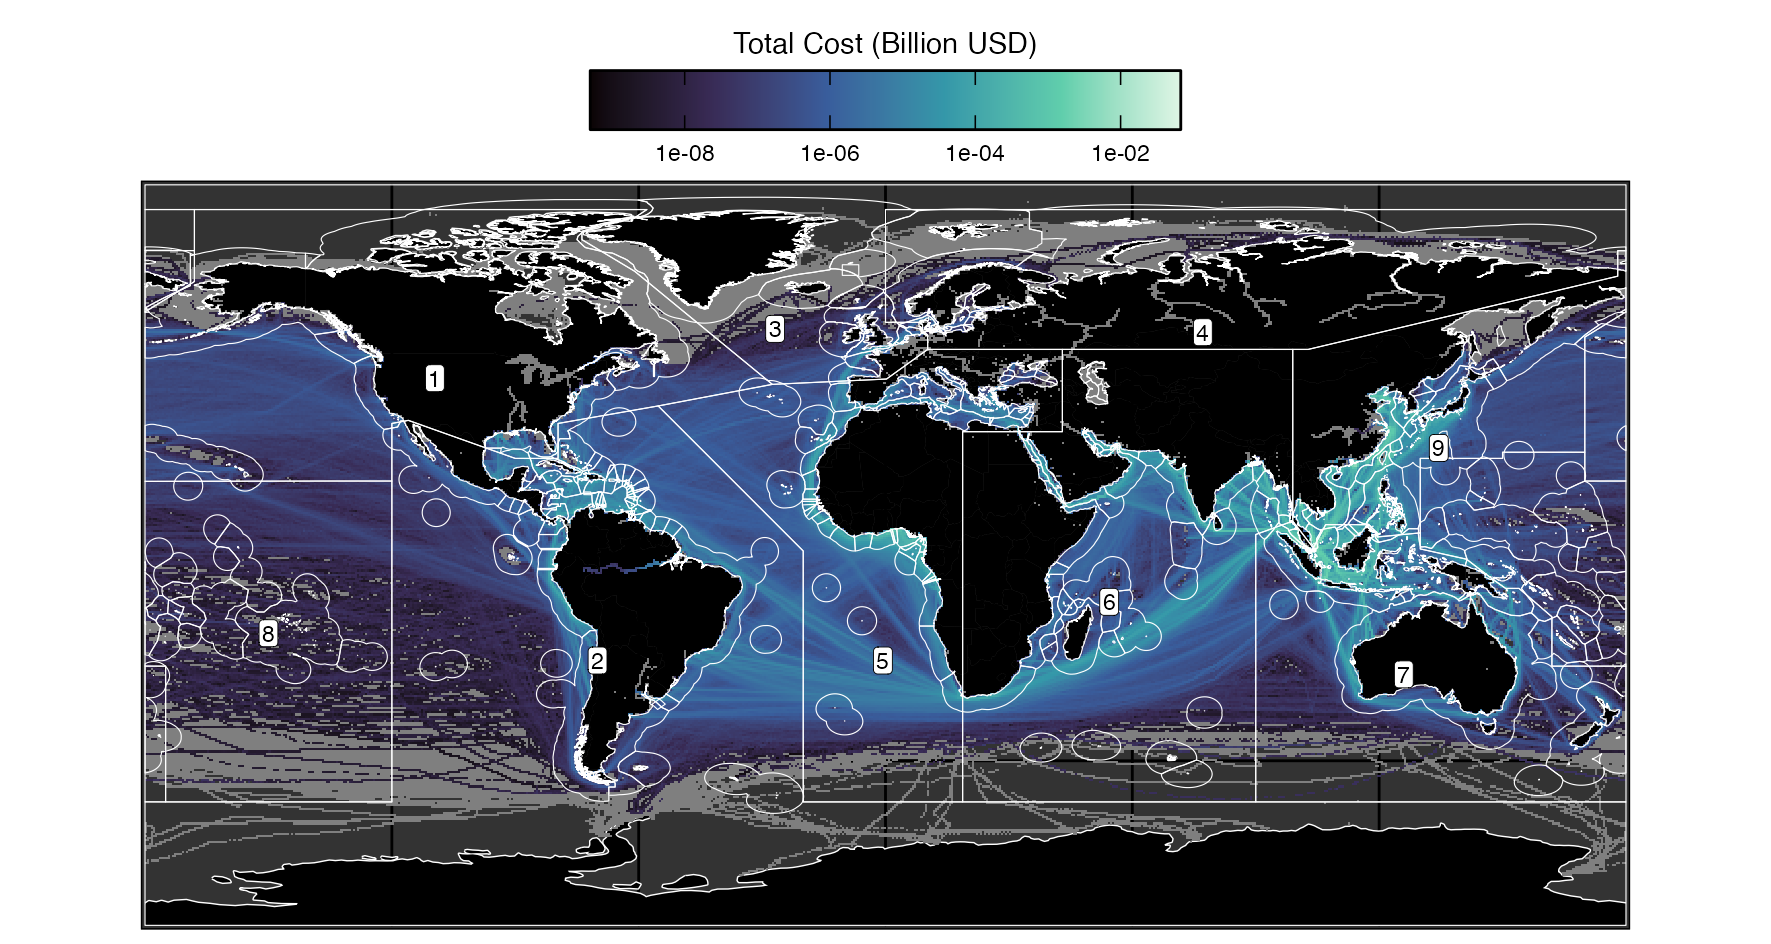
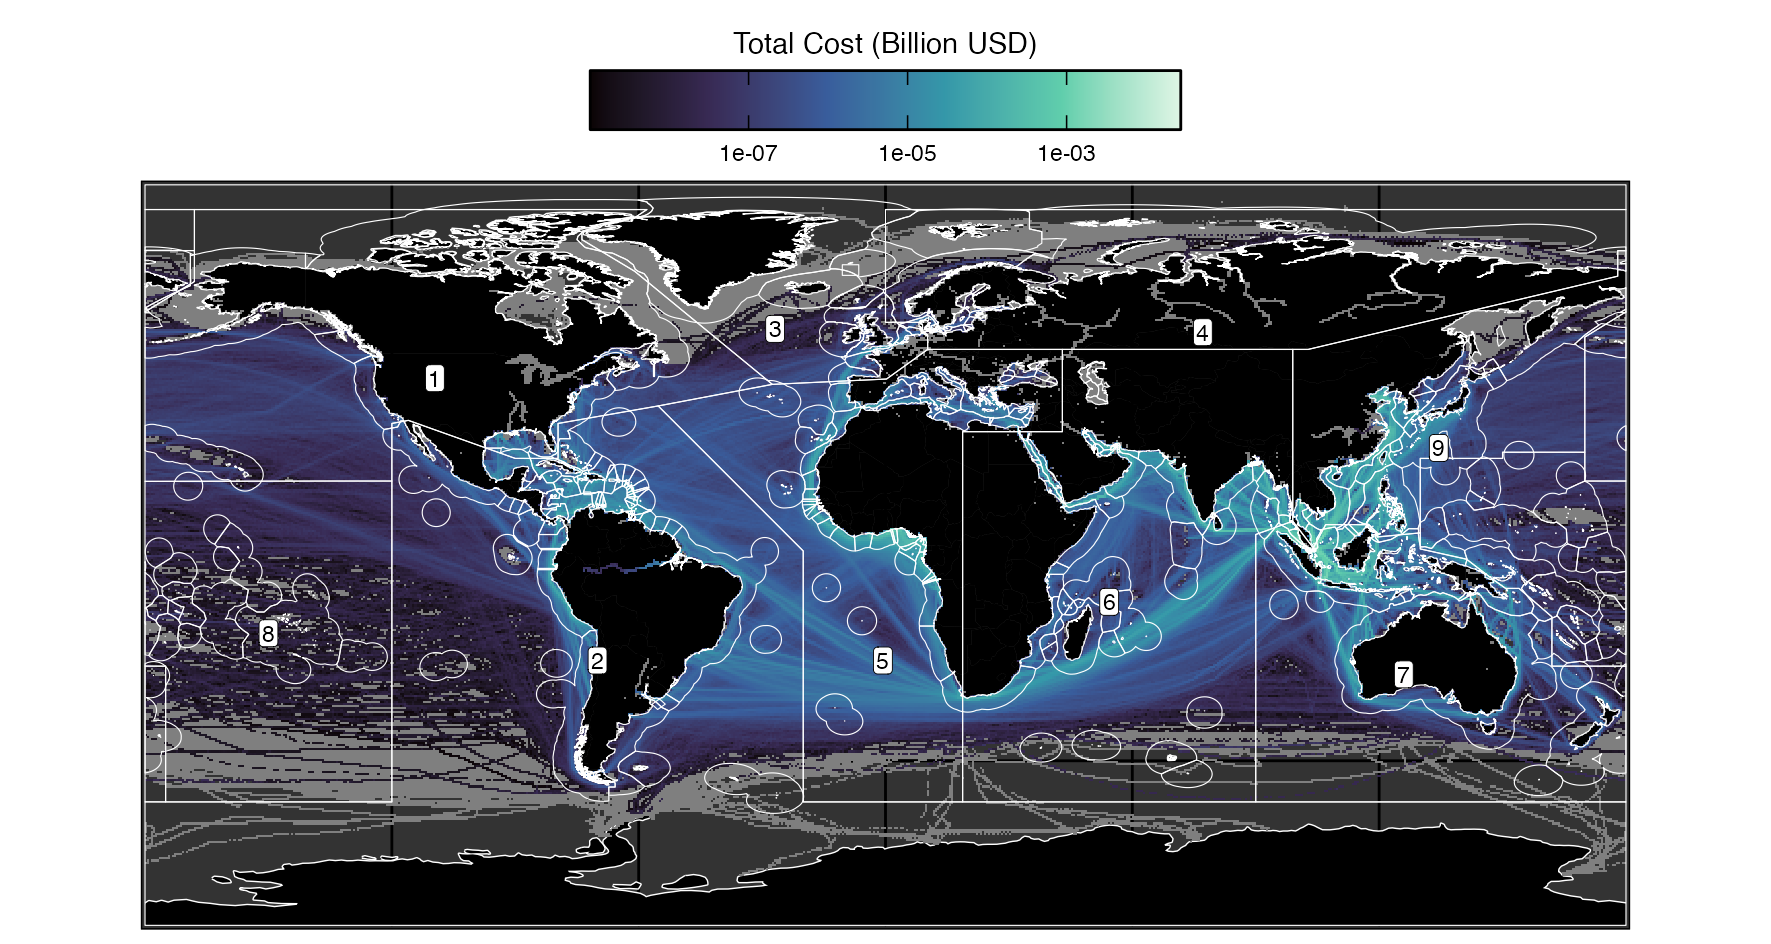
Updated counterfactual maps and tables

diff --git a/results/figures_and_tables/counterfactual_emissions.tex b/results/figures_and_tables/counterfactual_emissions.tex
@@ -10,22 +10,22 @@
 \midrule
 \addlinespace[0.3em]
 \multicolumn{13}{l}{\textbf{CO\_2 (Thousand metric tons)}}\\
-\hspace{1em}Global & 981 & 1,519 & 1,813 & 1,888 & 996 & 1,179 & 451 & 782 & 1,443 & 1,436 & 1,373 & 1,814\\
-\hspace{1em}G. of Aden & 132 & 70 & 39 & 17 & 29 & 107 & 26 & 25 & 44 & 45 & 34 & 55\\
-\hspace{1em}G. of Guinea & 112 & 119 & 78 & 53 & 110 & 120 & 94 & 70 & 154 & 78 & 41 & 38\\
-\hspace{1em}Southeast Asia & 676 & 1,261 & 1,667 & 1,744 & 731 & 857 & 248 & 635 & 1,119 & 1,236 & 1,228 & 1,677\\
+\hspace{1em}Global & 437 & 659 & 772 & 758 & 506 & 650 & 283 & 424 & 798 & 847 & 1,061 & 1,439\\
+\hspace{1em}G. of Aden & 85 & 50 & 29 & 13 & 21 & 85 & 20 & 19 & 35 & 36 & 27 & 44\\
+\hspace{1em}G. of Guinea & 77 & 84 & 56 & 38 & 82 & 92 & 73 & 54 & 119 & 60 & 33 & 31\\
+\hspace{1em}Southeast Asia & 244 & 478 & 668 & 665 & 317 & 404 & 128 & 312 & 557 & 690 & 945 & 1,329\\
 \addlinespace[0.3em]
 \multicolumn{13}{l}{\textbf{NOx (Metric tons)}}\\
-\hspace{1em}Global & 24,768 & 38,365 & 45,790 & 47,690 & 25,160 & 29,776 & 11,381 & 19,758 & 36,444 & 36,261 & 34,666 & 45,803\\
-\hspace{1em}G. of Aden & 3,342 & 1,773 & 992 & 431 & 724 & 2,691 & 647 & 623 & 1,116 & 1,138 & 862 & 1,394\\
-\hspace{1em}G. of Guinea & 2,834 & 3,005 & 1,982 & 1,339 & 2,768 & 3,025 & 2,369 & 1,779 & 3,899 & 1,968 & 1,047 & 965\\
-\hspace{1em}Southeast Asia & 17,084 & 31,848 & 42,107 & 44,052 & 18,467 & 21,641 & 6,266 & 16,029 & 28,263 & 31,225 & 31,009 & 42,354\\
+\hspace{1em}Global & 10,963 & 16,541 & 19,368 & 19,010 & 12,704 & 16,315 & 7,101 & 10,648 & 20,019 & 21,257 & 26,620 & 36,088\\
+\hspace{1em}G. of Aden & 2,125 & 1,265 & 739 & 315 & 531 & 2,123 & 506 & 480 & 883 & 892 & 680 & 1,115\\
+\hspace{1em}G. of Guinea & 1,942 & 2,101 & 1,398 & 965 & 2,059 & 2,298 & 1,828 & 1,348 & 2,980 & 1,509 & 830 & 767\\
+\hspace{1em}Southeast Asia & 6,126 & 11,997 & 16,763 & 16,691 & 7,953 & 10,129 & 3,217 & 7,834 & 13,969 & 17,320 & 23,714 & 33,329\\
 \addlinespace[0.3em]
 \multicolumn{13}{l}{\textbf{SOx (Metric tons)}}\\
-\hspace{1em}Global & 20,418 & 31,627 & 37,748 & 39,314 & 20,741 & 24,547 & 9,383 & 16,288 & 30,043 & 29,893 & 28,578 & 37,759\\
-\hspace{1em}G. of Aden & 2,755 & 1,462 & 818 & 355 & 597 & 2,219 & 533 & 514 & 920 & 938 & 710 & 1,149\\
-\hspace{1em}G. of Guinea & 2,336 & 2,477 & 1,634 & 1,104 & 2,282 & 2,494 & 1,953 & 1,466 & 3,214 & 1,622 & 863 & 795\\
-\hspace{1em}Southeast Asia & 14,084 & 26,255 & 34,712 & 36,315 & 15,223 & 17,840 & 5,165 & 13,214 & 23,299 & 25,741 & 25,563 & 34,915\\
+\hspace{1em}Global & 9,099 & 13,729 & 16,076 & 15,778 & 10,544 & 13,541 & 5,894 & 8,838 & 16,616 & 17,643 & 22,095 & 29,953\\
+\hspace{1em}G. of Aden & 1,764 & 1,050 & 613 & 261 & 440 & 1,762 & 420 & 399 & 733 & 740 & 564 & 925\\
+\hspace{1em}G. of Guinea & 1,612 & 1,744 & 1,161 & 801 & 1,709 & 1,907 & 1,517 & 1,119 & 2,473 & 1,253 & 689 & 637\\
+\hspace{1em}Southeast Asia & 5,085 & 9,957 & 13,914 & 13,854 & 6,601 & 8,407 & 2,670 & 6,502 & 11,595 & 14,375 & 19,683 & 27,663\\
 \bottomrule
 \end{tabular}
 \begin{tablenotes}

diff --git a/results/figures_and_tables/counterfactual_costs.tex b/results/figures_and_tables/counterfactual_costs.tex
@@ -10,22 +10,22 @@
 \midrule
 \addlinespace[0.3em]
 \multicolumn{13}{l}{\textbf{Fuel (Million USD)}}\\
-\hspace{1em}Global & 236 & 360 & 423 & 440 & 229 & 265 & 99 & 169 & 308 & 292 & 259 & 328\\
-\hspace{1em}G. of Aden & 32 & 17 & 9 & 4 & 7 & 24 & 6 & 5 & 9 & 9 & 6 & 10\\
-\hspace{1em}G. of Guinea & 27 & 28 & 18 & 12 & 25 & 27 & 21 & 15 & 33 & 16 & 8 & 7\\
-\hspace{1em}Southeast Asia & 163 & 299 & 389 & 406 & 168 & 193 & 55 & 137 & 239 & 252 & 232 & 304\\
+\hspace{1em}Global & 120 & 179 & 206 & 202 & 133 & 168 & 71 & 105 & 195 & 198 & 229 & 299\\
+\hspace{1em}G. of Aden & 23 & 14 & 8 & 3 & 6 & 22 & 5 & 5 & 9 & 8 & 6 & 9\\
+\hspace{1em}G. of Guinea & 21 & 23 & 15 & 10 & 22 & 24 & 18 & 13 & 29 & 14 & 7 & 6\\
+\hspace{1em}Southeast Asia & 67 & 130 & 179 & 178 & 84 & 104 & 32 & 77 & 136 & 161 & 204 & 276\\
 \addlinespace[0.3em]
 \multicolumn{13}{l}{\textbf{Labor (Million USD)}}\\
-\hspace{1em}Global & 43 & 66 & 79 & 82 & 43 & 51 & 20 & 34 & 63 & 62 & 60 & 79\\
-\hspace{1em}G. of Aden & 6 & 3 & 2 & 1 & 1 & 5 & 1 & 1 & 2 & 2 & 1 & 2\\
-\hspace{1em}G. of Guinea & 5 & 5 & 3 & 2 & 5 & 5 & 4 & 3 & 7 & 3 & 2 & 2\\
-\hspace{1em}Southeast Asia & 29 & 55 & 72 & 76 & 32 & 37 & 11 & 28 & 49 & 54 & 53 & 73\\
+\hspace{1em}Global & 20 & 30 & 36 & 35 & 23 & 30 & 13 & 20 & 37 & 39 & 49 & 66\\
+\hspace{1em}G. of Aden & 4 & 2 & 1 & 1 & 1 & 4 & 1 & 1 & 2 & 2 & 1 & 2\\
+\hspace{1em}G. of Guinea & 4 & 4 & 3 & 2 & 4 & 4 & 3 & 2 & 5 & 3 & 2 & 1\\
+\hspace{1em}Southeast Asia & 11 & 22 & 31 & 31 & 15 & 19 & 6 & 14 & 26 & 32 & 43 & 61\\
 \addlinespace[0.3em]
 \multicolumn{13}{l}{\textbf{Total (Million USD)}}\\
-\hspace{1em}Global & 278 & 426 & 501 & 522 & 272 & 317 & 119 & 203 & 370 & 355 & 318 & 407\\
-\hspace{1em}G. of Aden & 38 & 20 & 11 & 5 & 8 & 29 & 7 & 6 & 11 & 11 & 8 & 12\\
-\hspace{1em}G. of Guinea & 32 & 33 & 22 & 15 & 30 & 32 & 25 & 18 & 40 & 19 & 10 & 9\\
-\hspace{1em}Southeast Asia & 192 & 354 & 461 & 482 & 200 & 230 & 65 & 165 & 287 & 306 & 285 & 377\\
+\hspace{1em}Global & 140 & 209 & 242 & 237 & 157 & 198 & 84 & 125 & 232 & 237 & 278 & 365\\
+\hspace{1em}G. of Aden & 27 & 16 & 9 & 4 & 7 & 26 & 6 & 6 & 10 & 10 & 7 & 11\\
+\hspace{1em}G. of Guinea & 25 & 27 & 17 & 12 & 25 & 28 & 22 & 16 & 34 & 17 & 9 & 8\\
+\hspace{1em}Southeast Asia & 78 & 152 & 209 & 208 & 98 & 123 & 38 & 92 & 162 & 193 & 248 & 337\\
 \bottomrule
 \end{tabular}
 \begin{tablenotes}
